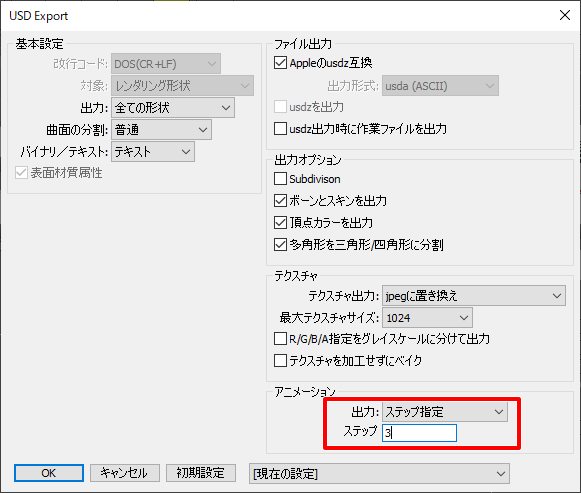
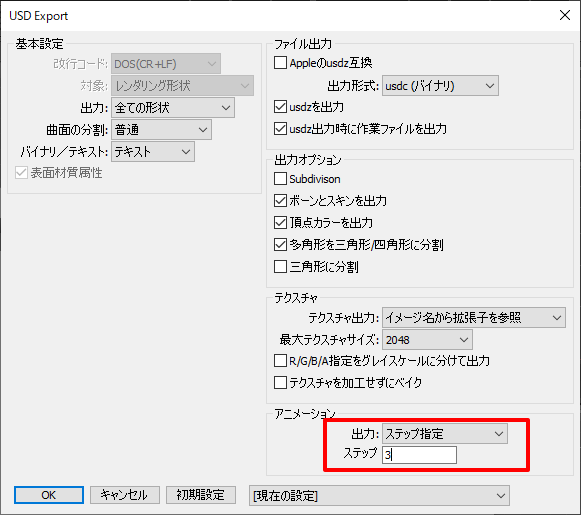
Update readme.

diff --git a/UpdateLog.md b/UpdateLog.md
@@ -1,5 +1,15 @@
 # 更新履歴
 
+[2021/03/01] ver.0.1.0.2   
+
+* Added : エクスポートオプションに「三角形に分割」を追加
+* Added : せん断使用時、クラシックスキン使用時、未サポートのジョイント使用時に警告を表示
+* Changed : 「Appleのusdz互換」をOnにしてエクスポートする場合は、強制的に三角形分割するようにした
+* Fixed : エクスポートオプションの「テクスチャ出力」で「イメージ名から拡張子を参照」を選択しても、ベイク時は無効になる(pngを参照する)問題を回避（ただし、外部参照時はイメージの拡張子を取得できないためpngとして扱われます）
+* Fixed : ボーンの変換行列にスケール/回転値が入っている場合に、正しくエクスポートされていない問題を修正
+* Fixed : ボールジョイント使用時に、正しくエクスポートされていない問題を修正
+* Fixed : usdzとしてエクスポートする場合、デフォルト拡張子がusdzになるようにした
+
 [2021/02/21] ver.0.1.0.1   
 
 * Changed : エクスポートオプションで「Appleのusdz互換」としたとき、拡張子usdzをファイルダイアログのデフォルトにした
